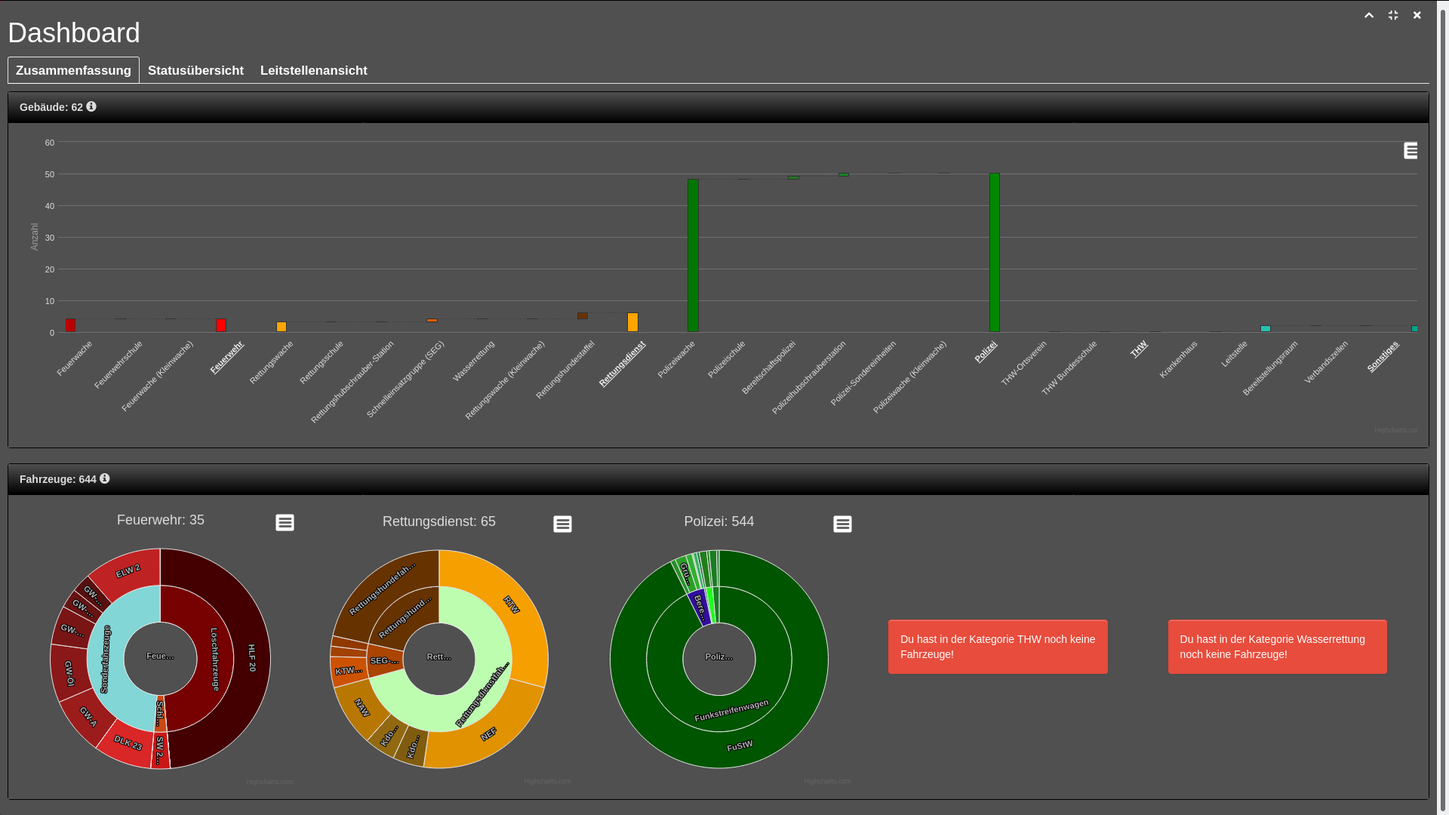
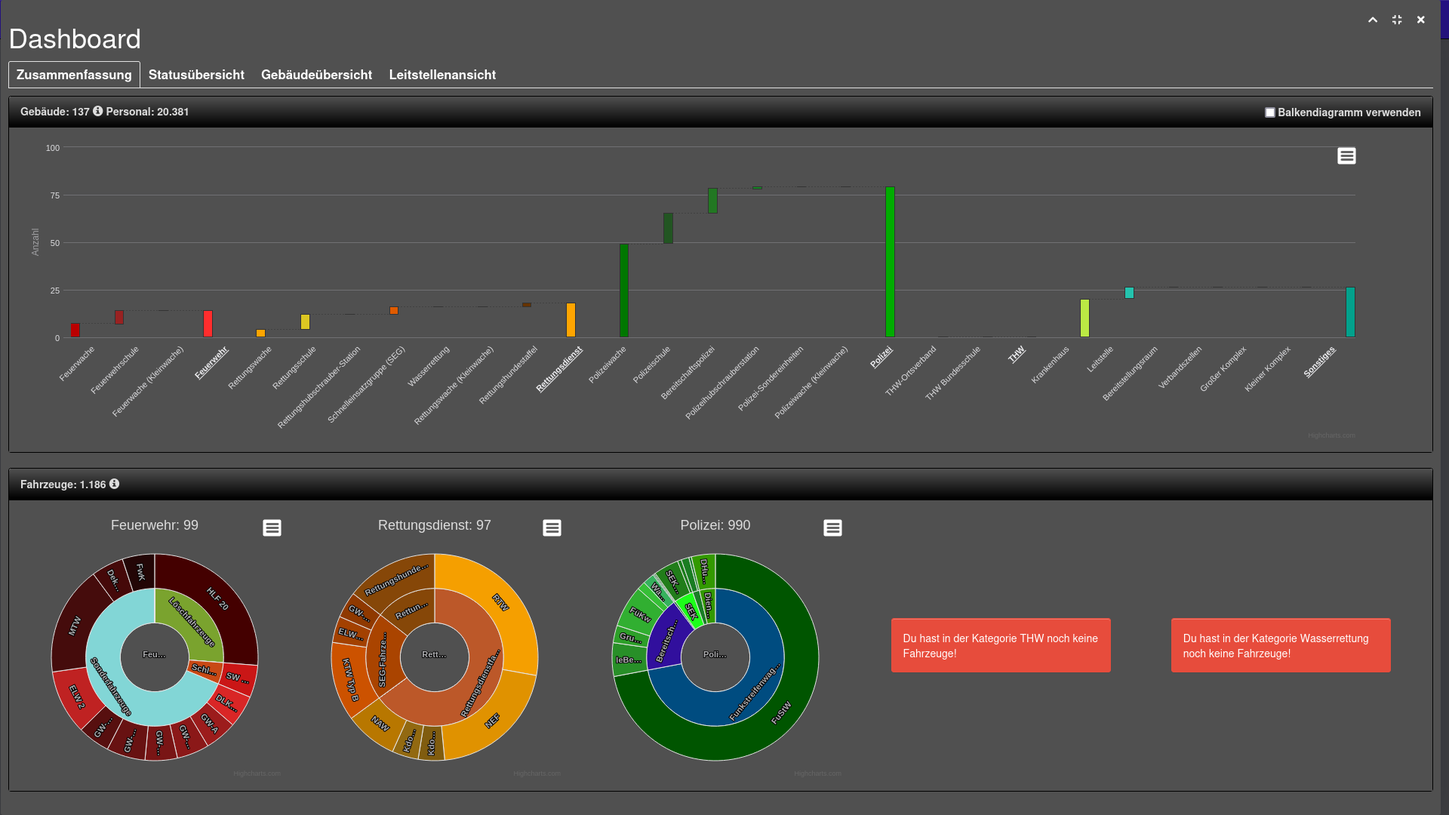
📝 [docs] some de_DE docs writing

diff --git a/docs/de_DE/apps.md b/docs/de_DE/apps.md
@@ -37,52 +37,52 @@ Wie in der Erklärung zum [Appstore](appstore.md) beschrieben, gibt es Module un
 Im folgenden haben wir dir eine kleine Auflistung der Features der V.3 aufgelistet und wo du diese in der V.4 findest.
 Grundsätzlich möchten wir mit der Zeit alle Funktionen der V.3 in die V.4 integrieren!
 
-|              Feature V.3               |         Modul V.4         |      Einstellung V.4      |                    Änderungen / Hinweise                     |
-| :------------------------------------: | :-----------------------: | :-----------------------: | :----------------------------------------------------------: |
-|            AAO-Klickzähler             | [Erweitertes Alarmfenster][extendedCallWindow]  |      AAO-Klickzähler      |                                                              |
-|               AAO-Suche                |                           |                           |                                                              |
-|      Alarmieren, Teilen & Posten       |                           |                           |                                                              |
-|               Center-Map               |                           |                           |                                                              |
-|                 Clock                  |            [Uhr][clock]            | Uhr als Overlay anzeigen  |                                                              |
-|           Creditserweiterung           |                           |                           |                                                              |
-|               Dashboard                |         [Dashboard][dashboard]         |                           |                                                              |
-|          Eigene VGE speichern          |                           |                           |                                                              |
-|             Einsatzhelfer              |       [Einsatzhelfer][missionHelper]       |                           |                                                              |
-|           Einsatzstichworte            | [Erweitertes Alarmfenster][extendedCallWindow]  |     Einsatzstichworte     |                                                              |
-|           Einsätze freigeben           |                           |                           |                                                              |
-|            Einsätze suchen             |                           |                           |                                                              |
-|       Erweiterte Gebäudeansicht        | [Erweiterte Gebäudeansicht][extendedBuilding] |                           |                                                              |
-|          Fahrzeuge umbenennen          |                           |                           |                                                              |
-|           FMS 5 in der Karte           |                           |                           |                                                              |
-|          Icon Gebäude Filter           |                           |                           |                                                              |
-|          Keyboard Alarmierung          |                           |                           | Wir werden in Zukunft ein Modul für viele selbst anpassbare Hotkeys anbieten |
-|         Kreis- & Landesgrenzen         |                           |                           |                                                              |
-|               Layout 01                |                           |                           | Wir möchten ein Modul für viele Layouts anbieten, die man auch selbst anpassen kann. |
-|               Layout 02                |                           |                           | Wir möchten ein Modul für viele Layouts anbieten, die man auch selbst anpassen kann. |
-|               Layout 03                |                           |                           | Wir möchten ein Modul für viele Layouts anbieten, die man auch selbst anpassen kann. |
-|               Layout 04                |                           |                           | Wir möchten ein Modul für viele Layouts anbieten, die man auch selbst anpassen kann. |
-|               LS-Heatmap               |                           |                           |                                                              |
-|         Markiert Eventeinsätze         |                           |                           |                                                              |
-|         Maßgeschneiderte Tabs          | [Erweitertes Alarmfenster][extendedCallWindow]  | Eigene Fahrzeugkategorien |                                                              |
-|        Meldedatum für Einsätze         | [Erweitertes Alarmfenster][extendedCallWindow]  |   Generierungszeitpunkt   |                                                              |
-|               MissionOut               |                           |                           |                                                              |
-|        Nachforderungen per FMS         |                           |                           |                                                              |
+|              Feature V.3               |                   Modul V.4                    |      Einstellung V.4      |                    Änderungen / Hinweise                     |
+| :------------------------------------: | :--------------------------------------------: | :-----------------------: | :----------------------------------------------------------: |
+|            AAO-Klickzähler             | [Erweitertes Alarmfenster][extendedCallWindow] |      AAO-Klickzähler      |                                                              |
+|               AAO-Suche                |                                                |                           |                                                              |
+|      Alarmieren, Teilen & Posten       |                                                |                           |                                                              |
+|               Center-Map               |                                                |                           |                                                              |
+|                 Clock                  |                  [Uhr][clock]                  | Uhr als Overlay anzeigen  |                                                              |
+|           Creditserweiterung           |                                                |                           |                                                              |
+|               Dashboard                |             [Dashboard][dashboard]             |                           |                                                              |
+|          Eigene VGE speichern          |                                                |                           |                                                              |
+|             Einsatzhelfer              |         [Einsatzhelfer][missionHelper]         |                           |                                                              |
+|           Einsatzstichworte            | [Erweitertes Alarmfenster][extendedCallWindow] |     Einsatzstichworte     |                                                              |
+|           Einsätze freigeben           |                                                |                           |                                                              |
+|            Einsätze suchen             |                                                |                           |                                                              |
+|       Erweiterte Gebäudeansicht        | [Erweiterte Gebäudeansicht][extendedBuilding]  |                           |                                                              |
+|          Fahrzeuge umbenennen          |                                                |                           |                                                              |
+|           FMS 5 in der Karte           |                                                |                           |                                                              |
+|          Icon Gebäude Filter           | [Anpassbare Gebäudeliste][buildingListFilter]  |                           | Es werden keine Icons mehr Standardmäßig ersetzt. Dafür kann das Modul der V.4 viel mehr: Du kannst die Filter selbstständig festlegen, sowohl mit Text als auch mit Icons! |
+|          Keyboard Alarmierung          |                                                |                           | Wir werden in Zukunft ein Modul für viele selbst anpassbare Hotkeys anbieten |
+|         Kreis- & Landesgrenzen         |                                                |                           |                                                              |
+|               Layout 01                |                                                |                           | Wir möchten ein Modul für viele Layouts anbieten, die man auch selbst anpassen kann. |
+|               Layout 02                |                                                |                           | Wir möchten ein Modul für viele Layouts anbieten, die man auch selbst anpassen kann. |
+|               Layout 03                |                                                |                           | Wir möchten ein Modul für viele Layouts anbieten, die man auch selbst anpassen kann. |
+|               Layout 04                |                                                |                           | Wir möchten ein Modul für viele Layouts anbieten, die man auch selbst anpassen kann. |
+|               LS-Heatmap               |                                                |                           |                                                              |
+|         Markiert Eventeinsätze         |                                                |                           |                                                              |
+|         Maßgeschneiderte Tabs          | [Erweitertes Alarmfenster][extendedCallWindow] | Eigene Fahrzeugkategorien |                                                              |
+|        Meldedatum für Einsätze         | [Erweitertes Alarmfenster][extendedCallWindow] |   Generierungszeitpunkt   |                                                              |
+|               MissionOut               |                                                |                           |                                                              |
+|        Nachforderungen per FMS         |                                                |                           |                                                              |
 |           Notification Alert           |    [Benachrichtigungen][notificationAlert]     |                           | In der V.4 gibt es viele mögliche Benachrichtigungen zur Auswahl, die auch teilweise konfigurierbar sind. |
-|              Redesign 01               |                           |                           |                                                              |
-|             Release Notes              |                           |                           | Die Releasenotes sind nativ in der V.4 integriert und nicht deaktivierbar ;) |
-|         show Back Alarm Above          |                           |                           |                                                              |
-|         show Chatbutton Above          |                           |                           |                                                              |
-|      show Patient entlassen Above      |                           |                           |                                                              |
-|             Status-Zähler              |                           |                           |                                                              |
-| Summe für die tägliche Zusammenfassung |                           |                           |                                                              |
-|                User-ID                 |          [User-ID][userid]          |                           |                                                              |
-|           Verbandsverwaltung           |                           |                           |                                                              |
-|          Verbesserte Status 5          |                           |                           |                                                              |
-|              *Vonginator*              |                           |                           |     *Ob dieses Modul in die V.4 kommt ist noch unklar!*      |
-|             Wachen Status              |     [Gebäude-Kurzinfos][buildingHover]     |                           |                                                              |
-|      Wachenplanung auf der Karte       |                           |                           |                                                              |
-|             Zielort Filter             |                           |                           |                                                              |
-|               Übersicht                |         [Übersicht][overview]         |                           |                                                              |
+|              Redesign 01               |                                                |                           |                                                              |
+|             Release Notes              |                                                |                           | Die Releasenotes sind nativ in der V.4 integriert und nicht deaktivierbar ;) |
+|         show Back Alarm Above          |                                                |                           |                                                              |
+|         show Chatbutton Above          |                                                |                           |                                                              |
+|      show Patient entlassen Above      |                                                |                           |                                                              |
+|             Status-Zähler              |                                                |                           |                                                              |
+| Summe für die tägliche Zusammenfassung |                                                |                           |                                                              |
+|                User-ID                 |               [User-ID][userid]                |                           |                                                              |
+|           Verbandsverwaltung           |                                                |                           |                                                              |
+|          Verbesserte Status 5          |                                                |                           |                                                              |
+|              *Vonginator*              |                                                |                           |     *Ob dieses Modul in die V.4 kommt ist noch unklar!*      |
+|             Wachen Status              |       [Gebäude-Kurzinfos][buildingHover]       |                           |                                                              |
+|      Wachenplanung auf der Karte       |                                                |                           |                                                              |
+|             Zielort Filter             |                                                |                           |                                                              |
+|               Übersicht                |             [Übersicht][overview]              |                           |                                                              |
 
 [extendedCallWindow]: modules/extendedCallWindow.md
 [clock]: modules/clock.md
@@ -93,3 +93,4 @@ Grundsätzlich möchten wir mit der Zeit alle Funktionen der V.3 in die V.4 inte
 [userid]: modules/userid.md
 [buildingHover]: modules/buildingHover.md
 [overview]: modules/overview.md
+[buildingListFilter]: modules/buildingListFilter.md

diff --git a/docs/de_DE/settings.md b/docs/de_DE/settings.md
@@ -7,11 +7,11 @@ lang: de_DE
 
 In den Einstellungen werden die Einstellungen aller Module zentral verwaltet. Es können nur die Einstellungen aktiver Module verändert werden.
 
-Es ist geplant, eine Möglichkeit zum Export und Import der Einstellungen, wie im `LSSM V.3`, hinzuzufügen.
-Zudem möchten wir in naher Zukunft die Möglichkeit bieten, Einstellungen Profilgebunden zu speichern. Damit sind Einstellungen nichtmehr Gerätegebunden.
+Mittels der Knöpfe `Export` und `Import` kannst du deine Einstellungen in einer Datei sichern und / oder an deine Freunde weitergeben.
+Wir möchten in naher Zukunft die Möglichkeit bieten, Einstellungen Profilgebunden zu speichern. Damit sind Einstellungen nichtmehr Gerätegebunden.
 
 ::: tip Änderungen
-Sobald du die Einstellungen verlässt und gespeicherte Änderungen hast, wird das Spiel neu geladen, um alle Einstellungen problemlos zu übernehmen..
+Sobald du die Einstellungen verlässt und gespeicherte Änderungen hast, wird das Spiel neu geladen, um alle Einstellungen problemlos zu übernehmen.
 Hast du ungespeicherte Änderungen, kannst du die Einstellungen nicht schließen, es kommt eine kleine Hinweis-Meldung.
 :::
 
@@ -23,3 +23,15 @@ Vorsicht: Setzt du Einstellungen zurück, können sie ohne den vorherigen Export
 
 ### Label statt Icon im Menü
 Standardmäßig wird in der Navigationsleiste das LSSM-Logo als Menü-Kopf angezeigt. Manchen suspekten Nutzern ist die Nutzung eines einfachen grün hinterlegten Textes aber lieber. Deshalb kann man dieses mit dieser Einstellung aktivieren.
+
+### Telemetrie erlauben
+Damit kannst du bestimmen, ob der LSSM [Metadaten](metadata.md) senden darf oder nicht.
+
+### LSSM-Icon Hintergrund
+Diese Einstellung legt die Hintergrundfarbe des LSSM-Icons bzw. des Labels fest.
+
+### Navigationsleiste einfärben
+Du möchtest die Farbe aus [`LSSM-Icon Hintergrund`](#lssm-icon-hintergrund) als Farbe für alle Navigationsleisten haben? Das geht mit dieser Einstellung ganz einfach!
+
+### Dunkle Tooltips in der Karte
+Hast du das dunkle Design aktiv, sind die Tooltips (Fahrzeug-/Einsatznamen etc.) trotzdem hell. Mittels diesem Feature lässt sich das ganz einfach korrigieren, so dass auch die Tooltips dunkel sind.

diff --git a/src/modules/dashboard/docs/de_DE.md b/src/modules/dashboard/docs/de_DE.md
@@ -12,5 +12,34 @@ Anschließend bietet ein Klick auf einen Gebäudetyp eine Übersicht über die Z
 Auch bei den Fahrzeugen gibt es Gruppierungen. Ein klick auf eine Gruppe (z.B: `Bereitschaftspolizei-Fahrzeuge`) zeigt nur Fahrzeugtypen dieser Gruppierung an. Somit erhälst du besser den Überblick über einzelne Fahrzeugkategorien.
 
 ## Statusübersicht
+In der Statusübersicht findest du eine Tabelle, in der du sehen kannst von welchem Fahrzeugtyp du wie viele Fahrzeuge hast und ebenfalls wie viele welchen Status haben. Die Tabelle lässt sich Filtern und sortieren.
+![Statusübersicht](/v4/docs/assets/dashboard/img/de_DE/status_table.png)
+
+Fährt man mit der Maus über eine Tabellenzelle erscheint ein Knopf, mit welchem man eine Fahrzeugliste öffnen kann. Hier ein paar Beispiele:
+
+#### Alle Fahrzeuge eines Typs
+![Alle Fahrzeuge eines Typs](/v4/docs/assets/dashboard/img/de_DE/vehiclelist.png)
+
+#### Alle Fahrzeuge eines Typs in einem bestimmten Status
+![Alle Fahrzeuge eines Typs in einem bestimmten Status](/v4/docs/assets/dashboard/img/de_DE/vehiclelist_status.png)
+
+#### Alle Fahrzeuge in einem Status
+![Alle Fahrzeuge in einem Status](/v4/docs/assets/dashboard/img/de_DE/vehiclelist_status_all.png)
+
+## Gebäudeübersicht
+Die Gebäudeübersicht listet auf, welche Gebäudetypen du hast und in welcher Menge. Ebenfalls kannst du die Zahl der Ausbauten einsehen:
+
+![Gebäudeübersicht](/v4/docs/assets/dashboard/img/de_DE/buildinglist.png)
+
+Über die "Gebäude"-Knöpfe lassen sich Listen ansehen:
+
+#### Alle Gebäude eines Typs
+![Alle Gebäude eines Typs](/v4/docs/assets/dashboard/img/de_DE/buildinglist_type.png)
+
+#### Alle Gebäude mit einem bestimmten Ausbau
+![Alle Gebäude mit einem bestimmten Ausbau](/v4/docs/assets/dashboard/img/de_DE/buildinglist_extension.png)
 
 ## Leitstellenansicht
+:::danger Noch in Entwicklung
+Die Leitstellenansicht ist noch in Entwicklung und funktioniert deshalb nicht wirklich gut derzeit :)
+:::

diff --git a/src/modules/overview/docs/de_DE.md b/src/modules/overview/docs/de_DE.md
@@ -3,7 +3,7 @@ Mit dabei ist auch eine Suche, und die Tabellen lassen sich sortieren, wie man e
 
 Die Übersicht lässt sich, wenn aktiviert, über das LSSM-Menü unter dem Punkt "Übersicht" erreichen:
 
-![Öffnen über das LSSM-Menü](/v4/docs/assets/overview/img/menu_de.png)
+![Öffnen über das LSSM-Menü](/v4/docs/assets/overview/img/de_DE/menu.png)
 
 ## Fahrzeuge
 Die folgenden Informationen sind in der Fahrzeugübersicht vorhanden:
@@ -15,7 +15,7 @@ Die folgenden Informationen sind in der Fahrzeugübersicht vorhanden:
 * Wassertank
 * Besonderheiten
 
-![Die Fahrzeugübersicht](/v4/docs/assets/overview/img/fahrzeuge.png)
+![Die Fahrzeugübersicht](/v4/docs/assets/overview/img/de_DE/fahrzeuge.png)
 
 ## Gebäude
 Alle Gebäude sind in einer gemeinsamen Tabelle gelistet, welche folgende Informationen enthält:
@@ -29,4 +29,12 @@ Alle Gebäude sind in einer gemeinsamen Tabelle gelistet, welche folgende Inform
 * Ausbauten
 * Besonderes
 
-![Die Gebäudeübersicht](/v4/docs/assets/overview/img/gebaeude.png)
+![Die Gebäudeübersicht](/v4/docs/assets/overview/img/de_DE/gebaeude.png)
+
+## Lehrgänge
+Die Listen möglicher Lehrgänge enthalten folgende Informationen:
+* Lehrgangsname
+* Welche Fahrzeuge diese Ausbildung benötigen
+* Wie lange die Ausbildung dauert
+
+![Die Lehrgangsübersicht](/v4/docs/assets/overview/img/de_DE/lehrgaenge.png)

diff --git a/docs/de_DE/faq.md b/docs/de_DE/faq.md
@@ -72,7 +72,7 @@ Wir sehen es nicht ein, dies überall zu machen und unterstützen diese beiden B
 :::
 
 ### Ich möchte mein Setup an Freunde weitergeben oder es an mehreren Geräten nutzen. Geht das?
-Aktuell geht das nicht, wir arbeiten aber daran, das einzubauen.
+Ja, das geht. Klicke dazu einfach in den [Einstellungen][settings] auf `Export`, um eine Datei herunterzuladen und `Import` um die Einstellungen aus einer Datei zu importieren.
 
 ### Gibt es eine Möglichkeit, Einstellungen Account-gebunden zu speichern, um sie an einem anderen Gerät nicht importieren zu müssen?
 Derzeit bieten wir das nicht an, eine Implementierung dieses Features ist aber geplant.
@@ -84,3 +84,4 @@ Oder im Uptime-Channel auf unserem <a :href="$themeConfig.variables.discord" tar
 [support]: support.md
 [error]: error_report.md
 [suggestions]: suggestions.md
+[settings]: settings.md

diff --git a/src/modules/buildingListFilter/docs/de_DE.md b/src/modules/buildingListFilter/docs/de_DE.md
@@ -1,0 +1,16 @@
+Du möchtest die Filter der Gebäudeliste selbst anpassen oder hast das Script [Wachen Filter Button](https://forum.leitstellenspiel.de/index.php?thread/13901-wachen-filter-button/) genutzt, welches leider nichtmehr funktioniert?
+
+Dann bist du hier genau richtig!
+
+Dieses Modul bietet dir die Möglichkeit, die Filter über der Geböudeliste **komplett** selbstständig anzupassen. Das heißt konkret:
+* Anzahl der Filterbuttons bestimmen
+* Gebäudetypen jedes Knopfes bestimmen
+* Text oder ein Icon verwenden.
+
+Beispiel:
+
+![Eine Beispielhafte Filter-Konfiguration](/v4/docs/assets/buildingListFilter/img/de_DE/btns.png)
+
+Die Konfiguration dafür sieht so aus:
+
+![Konfiguration](/v4/docs/assets/buildingListFilter/img/de_DE/settings.png)

diff --git a/src/modules/enhancedPOI/docs/de_DE.md b/src/modules/enhancedPOI/docs/de_DE.md
@@ -7,6 +7,7 @@ Aufgrund von Beschränkungen seitens Mapkit ist es uns leider derzeit nicht mög
 Um das Setzen ein wenig zu erleichtern, bietet dieses Modul daher folgende Vereinfachungen:
 * Um herauszufinden, welcher Marker welcher POI ist, reicht es nun mit der Maus über den Marker zu fahren, er muss nicht erst angeklickt werden.
 * Alle bisherigen POI der aktuell ausgewählten Art werden farblich hervorgehoben.
+  * Die Farbe lässt sich in den Einstellungen auswählen.
 * Verlässt der Marker zur Platzierung neuer POI den sichtbaren Bereich der Karte, wird er automatisch auf der Karte zentriert.
 
 ![Beispiel: Stadion](/v4/docs/assets/enhancedPOI/img/de_DE.png)

diff --git a/docs/de_DE/metadata.md b/docs/de_DE/metadata.md
@@ -11,3 +11,5 @@ Mit der Nutzung des `LSSM` (Leitstellenspiel Manager, Erweiterung für den Brows
 Diese Daten dienen zur Verbesserung der Erweiterung sowie als Anhaltspunkt für die Entwicklung bestehender bzw. zukünftiger Module.
 
 **Der User kann jeder Zeit die Erhebung dieser Daten per Nachricht an einen der Entwickler widerrufen.** Alle bereits erhobenen Daten des Users werden gelöscht & zukünfitg nicht mehr übertragen.
+
+Zudem lässt sich die Telemetrie über die [Einstellungen](settings.md) (de-)aktivieren.

diff --git a/src/modules/asyncButtons/docs/de_DE.md b/src/modules/asyncButtons/docs/de_DE.md
@@ -13,6 +13,7 @@ Wir haben an verschiedenen Stellen diese Asynchronität eingebaut:
 
 ## Gebäude
 * Bei Zellen und Krankenhäusern: Kostenübernahme vom Verbandsmitglied
+* Personal kündigen
 
 ### geplant:
 * Zellen / Krankenhausbetten im Verband freigeben bzw. nicht mehr freigeben

diff --git a/src/modules/hotkeys/docs/de_DE.md b/src/modules/hotkeys/docs/de_DE.md
@@ -1,0 +1,5 @@
+:::warning Entwicklung
+Dieses Modul ist noch in Entwicklung und steht noch in Aussicht!
+:::
+
+[GitHub](https://github.com/LSS-Manager/LSSM-V.4/issues/15)
